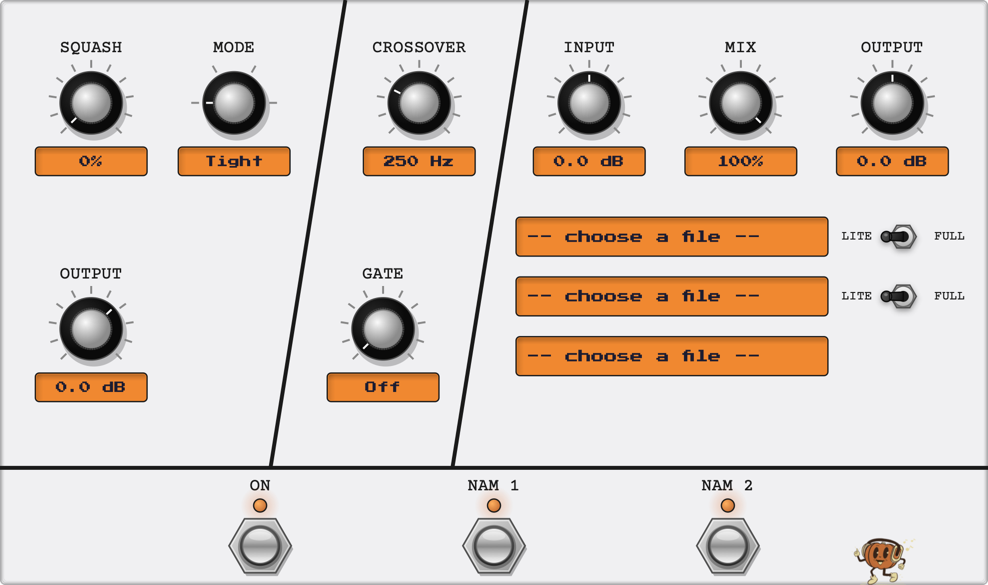
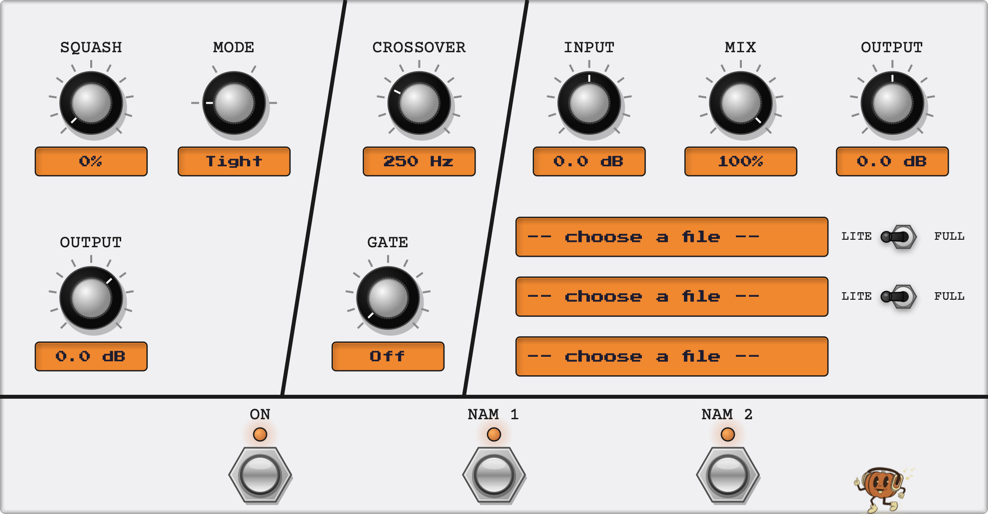
OctoBASS pedal: align lower readouts with IR slot, raise footer, shrink pedal

diff --git a/plugins/octobass/lv2/bundle/modgui/stylesheet.css b/plugins/octobass/lv2/bundle/modgui/stylesheet.css
@@ -6,9 +6,9 @@
 .mod-pedal-octobass {
     position: absolute;
     width: 988px;
-    height: 585px;
+    height: 513.5px;
     background-image: url(/resources/background.png{{{ns}}});
-    background-size: 988px 585px;
+    background-size: 988px 513.5px;
     background-repeat: no-repeat;
     border-radius: 3.9px;
 }
@@ -33,7 +33,7 @@
 .mod-pedal-octobass .opc-version {
     position: absolute;
     left: 41.6px;
-    top: 558.35px;
+    top: 486.85px;
     width: 143px;
     height: 13px;
     font-family: 'Courier New', monospace !important;
@@ -88,7 +88,7 @@
 
 .mod-pedal-octobass .opc-low-level {
     left: 35.1px;
-    top: 284.7px;
+    top: 253.5px;
     width: 112px;
     height: 88px;
     background-image: url(/resources/knob.png{{{ns}}});
@@ -97,7 +97,7 @@
 
 .mod-pedal-octobass .opc-value-low-level {
     left: 35.1px;
-    top: 373.1px;
+    top: 341.9px;
     width: 111.8px;
     height: 28.6px;
 }
@@ -119,8 +119,8 @@
 }
 
 .mod-pedal-octobass .opc-gate {
-    left: 327.13px;
-    top: 284.7px;
+    left: 332.12px;
+    top: 253.5px;
     width: 112px;
     height: 88px;
     background-image: url(/resources/knob.png{{{ns}}});
@@ -128,8 +128,8 @@
 }
 
 .mod-pedal-octobass .opc-value-gate {
-    left: 327.13px;
-    top: 373.1px;
+    left: 332.12px;
+    top: 341.9px;
     width: 111.8px;
     height: 28.6px;
 }
@@ -218,7 +218,7 @@
 
 .mod-pedal-octobass .opc-bypass {
     left: 213.2px;
-    top: 486.2px;
+    top: 414.7px;
     width: 94px;
     height: 104px;
     background-image: url(/resources/footswitch.png{{{ns}}});
@@ -235,7 +235,7 @@
 
 .mod-pedal-octobass .opc-nam1-on {
     left: 447.2px;
-    top: 486.2px;
+    top: 414.7px;
     width: 94px;
     height: 104px;
     background-image: url(/resources/footswitch.png{{{ns}}});
@@ -252,7 +252,7 @@
 
 .mod-pedal-octobass .opc-nam2-on {
     left: 681.2px;
-    top: 486.2px;
+    top: 414.7px;
     width: 94px;
     height: 104px;
     background-image: url(/resources/footswitch.png{{{ns}}});

diff --git a/scripts/mod-sim/ui_check.py b/scripts/mod-sim/ui_check.py
@@ -162,7 +162,23 @@ def check_quality_levers(page: Page):
               " ".join(classes(lever)))
 
 
-DIVIDER_Y_CSS = 360 * 1.3
+DIVIDER_Y_CSS = 305 * 1.3
+
+
+def check_lower_readouts_align_with_ir(page: Page):
+    centres = page.evaluate(
+        """() => {
+             const centre = e => e.offsetTop + e.offsetHeight / 2;
+             const pedal = '.mod-pedal-octobass';
+             return {
+               ir: centre(document.querySelector(`${pedal} .opc-file[mod-parameter-uri$="#cabinetIr"]`)),
+               output: centre(document.querySelector(`${pedal} .opc-value-low-level`)),
+               gate: centre(document.querySelector(`${pedal} .opc-value-gate`)),
+             };
+           }""")
+    for name in ["output", "gate"]:
+        check(f"{name} readout lines up with the IR slot", abs(centres[name] - centres["ir"]) <= 2,
+              f"{centres[name]} vs {centres['ir']}")
 
 
 def check_power_row(page: Page):
@@ -190,7 +206,8 @@ def check_pedal_size(page: Page):
     size = page.evaluate(
         """() => { const p = document.querySelector('.mod-pedal-octobass');
                    return [p.offsetWidth, p.offsetHeight]; }""")
-    check("pedal is scaled up", size[0] >= 950 and size[1] >= 560, f"{size[0]}x{size[1]}")
+    check("pedal is scaled up", size[0] >= 950 and size[1] >= 500, f"{size[0]}x{size[1]}")
+    check("pedal is no taller than its content needs", size[1] <= 520, f"{size[0]}x{size[1]}")
 
 
 def list_visible(page: Page, parameter):
@@ -263,6 +280,7 @@ def main():
         check_right_zone(page)
         check_quality_levers(page)
         check_power_row(page)
+        check_lower_readouts_align_with_ir(page)
         check_sprite_frames(page)
         check_file_list_dismissal(page)
         check_bypass(page)

diff --git a/plugins/octobass/lv2/tools/ModguiAssetRenderer.cpp b/plugins/octobass/lv2/tools/ModguiAssetRenderer.cpp
@@ -18,8 +18,8 @@ constexpr float RenderScale = 2.0f;
 constexpr float DisplayScale = 1.3f;
 constexpr float PixelScale = RenderScale * DisplayScale;
 constexpr float PedalWidth = 760.0f;
-constexpr float PedalHeight = 450.0f;
-constexpr float DividerY = 360.0f;
+constexpr float PedalHeight = 395.0f;
+constexpr float DividerY = 305.0f;
 constexpr float Pad = 15.0f;
 constexpr float LineSlope = 86.4f / 540.0f;
 constexpr float LeftLineTopX = 265.6f;
@@ -30,7 +30,7 @@ constexpr float KnobHeight = 68.0f;
 constexpr float ValueHeight = 22.0f;
 constexpr float FullRowHeight = LabelHeight + KnobHeight + ValueHeight;
 constexpr float Row1Y = 29.0f;
-constexpr float Row2Y = 203.0f;
+constexpr float Row2Y = 179.0f;
 constexpr float RightZoneX = Pad + 220.0f + 160.0f;
 constexpr float RightZoneWidth = PedalWidth - Pad - RightZoneX;
 constexpr float LeverWidth = 44.0f;
